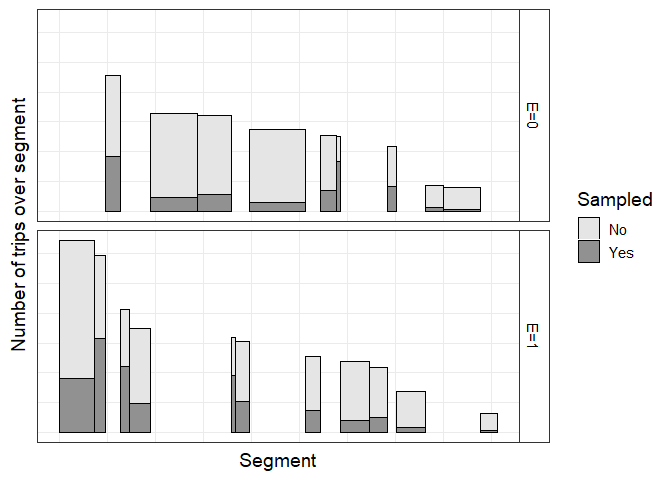
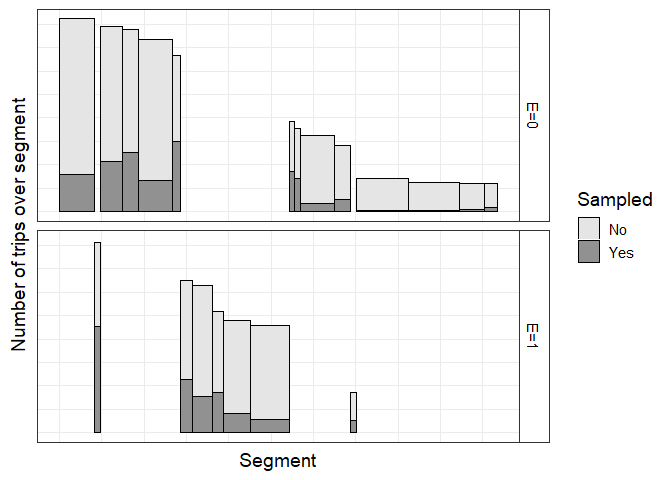
e to E

Changed region(s): [[0.0625, 0.0312, 0.75, 0.4688], [0.0625, 0.5, 0.6562, 0.9062], [0.7188, 0.8438, 0.75, 0.9062]]

diff --git a/code/code-for-figures.html b/code/code-for-figures.html
@@ -1675,21 +1675,21 @@ library(truncnorm)</code></pre>
     N_f_not = N-n, #number not sampled
     PD_f_not = PD - PD_f,
     #Set exposure to follow a binomial distribution (p=.4)
-    e = rbinom(n=n(), size=1, prob=.4),
-    e_char = case_when(
-      e==1 ~ &quot;E=1&quot;,
-      e==0 ~ &quot;E=0&quot;
+    E = rbinom(n=n(), size=1, prob=.4),
+    E_char = case_when(
+      E==1 ~ &quot;E=1&quot;,
+      E==0 ~ &quot;E=0&quot;
     )
   )
 
 
 # Create a long-form dataset. (Could do this with pivot-longer but not yet intuitive to me)
 fig1_df_long_s1 = fig1_df %&gt;% 
-  dplyr::select(id, L, N, L_cum_mid, n, PD_f, e_char, e) %&gt;% 
+  dplyr::select(id, L, N, L_cum_mid, n, PD_f, E_char, E) %&gt;% 
   rename(n_long = n, PD_long = PD_f) %&gt;% 
   arrange(L) %&gt;% 
   mutate(sampled=1) %&gt;% 
-  group_by(e) %&gt;% 
+  group_by(E) %&gt;% 
   mutate(
     L_cum_right_alt = cumsum(L), #alt
     L_cum_left_alt =L_cum_right_alt-L,
@@ -1697,11 +1697,11 @@ fig1_df_long_s1 = fig1_df %&gt;%
   )
 
 fig1_df_long_s0 = fig1_df %&gt;% 
-  dplyr::select(id, L, N, L_cum_mid, N_f_not, PD_f_not, e_char, e) %&gt;% 
+  dplyr::select(id, L, N, L_cum_mid, N_f_not, PD_f_not, E_char, E) %&gt;% 
   rename(n_long = N_f_not, PD_long = PD_f_not) %&gt;% 
   arrange(L) %&gt;% 
   mutate(sampled=0) %&gt;% 
-  group_by(e) %&gt;% 
+  group_by(E) %&gt;% 
   mutate(
     L_cum_right_alt = cumsum(L), #alt
     L_cum_left_alt =L_cum_right_alt-L,
@@ -1721,7 +1721,7 @@ fig1_df_long = fig1_df_long_s1 %&gt;%
     position = &quot;stack&quot;,
     colour = &quot;black&quot;,
     lwd=.5) +
-  facet_grid(rows = vars(e_char)) +
+  facet_grid(rows = vars(E_char)) +
 
   ylab(&quot;Number of trips over segment&quot;) +
   xlab(&quot;Segment&quot;) +
@@ -1744,7 +1744,7 @@ fig1_df_long = fig1_df_long_s1 %&gt;%
     )+
   theme( strip.background =element_rect(fill=&quot;white&quot;))+
   theme(  strip.text =element_text(colour =   &quot;black&quot;))</code></pre>
[2 lines of base64/hex data omitted]
 </div>
 <div id="figure-2-person-event-sampling-at-the-intersection-level" class="section level3">
 <h3>Figure 2: person-event sampling at the intersection level</h3>
@@ -1759,7 +1759,7 @@ fig1_df_long = fig1_df_long_s1 %&gt;%
     stat=&quot;identity&quot;, 
     position = &quot;stack&quot;,
     colour = &quot;black&quot;) +
-  facet_grid(rows = vars(e_char)) +
+  facet_grid(rows = vars(E_char)) +
   ylab(&quot;Number of trips over intersection&quot;) +
   xlab(&quot;Intersection&quot;) +
   scale_fill_manual(
@@ -1781,7 +1781,7 @@ fig1_df_long = fig1_df_long_s1 %&gt;%
   )+
   theme( strip.background =element_rect(fill=&quot;white&quot;))+
   theme(  strip.text =element_text(colour =   &quot;black&quot;))</code></pre>
[2 lines of base64/hex data omitted]
 </div>
 
 

diff --git a/code/code-for-figures.md b/code/code-for-figures.md
@@ -51,21 +51,21 @@ fig1_df = 1:20 %>%
     N_f_not = N-n, #number not sampled
     PD_f_not = PD - PD_f,
     #Set exposure to follow a binomial distribution (p=.4)
-    e = rbinom(n=n(), size=1, prob=.4),
-    e_char = case_when(
-      e==1 ~ "E=1",
-      e==0 ~ "E=0"
+    E = rbinom(n=n(), size=1, prob=.4),
+    E_char = case_when(
+      E==1 ~ "E=1",
+      E==0 ~ "E=0"
     )
   )
 
 
 # Create a long-form dataset. (Could do this with pivot-longer but not yet intuitive to me)
 fig1_df_long_s1 = fig1_df %>% 
-  dplyr::select(id, L, N, L_cum_mid, n, PD_f, e_char, e) %>% 
+  dplyr::select(id, L, N, L_cum_mid, n, PD_f, E_char, E) %>% 
   rename(n_long = n, PD_long = PD_f) %>% 
   arrange(L) %>% 
   mutate(sampled=1) %>% 
-  group_by(e) %>% 
+  group_by(E) %>% 
   mutate(
     L_cum_right_alt = cumsum(L), #alt
     L_cum_left_alt =L_cum_right_alt-L,
@@ -73,11 +73,11 @@ fig1_df_long_s1 = fig1_df %>%
   )
 
 fig1_df_long_s0 = fig1_df %>% 
-  dplyr::select(id, L, N, L_cum_mid, N_f_not, PD_f_not, e_char, e) %>% 
+  dplyr::select(id, L, N, L_cum_mid, N_f_not, PD_f_not, E_char, E) %>% 
   rename(n_long = N_f_not, PD_long = PD_f_not) %>% 
   arrange(L) %>% 
   mutate(sampled=0) %>% 
-  group_by(e) %>% 
+  group_by(E) %>% 
   mutate(
     L_cum_right_alt = cumsum(L), #alt
     L_cum_left_alt =L_cum_right_alt-L,
@@ -100,7 +100,7 @@ fig1_df_long %>%
     position = "stack",
     colour = "black",
     lwd=.5) +
-  facet_grid(rows = vars(e_char)) +
+  facet_grid(rows = vars(E_char)) +
 
   ylab("Number of trips over segment") +
   xlab("Segment") +
@@ -142,7 +142,7 @@ fig1_df_long %>%
     stat="identity", 
     position = "stack",
     colour = "black") +
-  facet_grid(rows = vars(e_char)) +
+  facet_grid(rows = vars(E_char)) +
   ylab("Number of trips over intersection") +
   xlab("Intersection") +
   scale_fill_manual(
